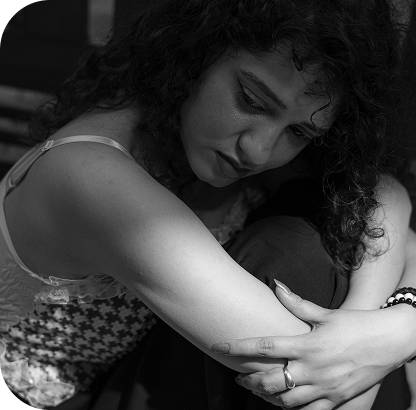
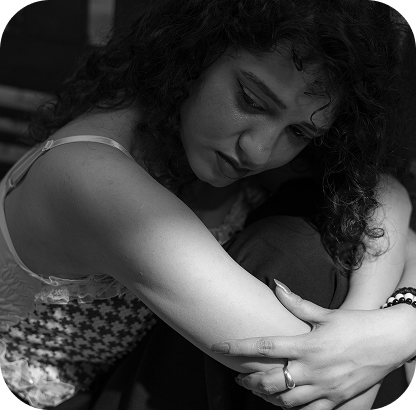
Inset the For Individual collage and fit it on the first screen
From review in the browser:
- The collage bled off both edges and read as cut off. It now spans the
  section's 5% gutter, the same edges as the navbar logo and Contact
  button, and the four photos that bled have their square side rounded
  to match their other corners.
- The strip ran under the fold. Its width is now also capped by the
  viewport height, so the photos plus some white land on the first
  screen (checked from 1280x720 to 2560x1440); lg top padding 7rem -> 4rem.
- 112px, not 48px, from the photos to "Meet From Anywhere in Ohio".

Changed region(s): [[0.875, 0.9073, 1.0, 1.0], [0.9062, 0.0, 1.0, 0.0878]]

diff --git a/components/sections/for-individual-page/layout-134.jsx b/components/sections/for-individual-page/layout-134.jsx
@@ -7,25 +7,33 @@ import React from "react";
  * The 2026-09-24 For Individual frame keeps the hero's type as it was --
  * tagline 16/24 w600, heading Playfair 400, body 18/27, button 140x44 -- and
  * replaces the three line-art vignettes with a collage of ten photographs:
- * a strip of seven under the button, plus a column of three flush to the
- * right edge that climbs up beside the copy.
+ * a strip of seven under the button, plus a column of three at the right
+ * end that climbs up beside the copy.
  *
  * Every box below is the frame's own, in 1440-frame px, measured from the top
  * of the strip (frame y=417 below the navbar, 19px above the button's bottom
  * edge -- the button sits between columns, so they never touch; the overlap
  * is built as 20px, the nearest step on the spacing scale). Each file was
- * delivered at exactly 2x its box with its corners already rounded, including
- * the square edge where a photo bleeds off the page, so none of them needs a
- * radius or `object-fit` here.
+ * delivered at exactly 2x its box with its corners already rounded, so none
+ * of them needs a radius or `object-fit` here.
  *
- * The strip scales with the viewport: `x`/`w` are a share of 1440, `y`/`h` a
- * share of the strip's 298px height, and the strip keeps that 1440:298 aspect.
- * The right column's top photo runs 319px (scaled) above the strip, so above
- * 1440 the section's top padding grows by the same amount -- `22.153vw - 207px`
- * is 7rem at 1440 -- and that photo keeps its distance under the navbar at
- * any width rather than sliding up under it. The frame puts it 98px down; here
- * it is 152px, level with the top of the h1, because the h1 is set a token
- * step larger than the frame (see below) and pushes the strip down with it.
+ * Two departures from the frame, both from review in the browser:
+ *
+ * 1. **The collage sits inside the page gutter, not flush to the edges.** The
+ *    frame bleeds the left photo and the right column off the page; on a real
+ *    screen that read as cut off. The strip now spans the section's 5% gutter
+ *    -- the same edges as the navbar logo and Contact button -- and the four
+ *    photos that bled had their square side rounded to match their others.
+ * 2. **The whole collage fits on the first screen.** The strip keeps the
+ *    frame's 1440:298 shape (`x`/`w` a share of 1440, `y`/`h` a share of 298)
+ *    but its width is also capped by the viewport *height*, so the photos plus
+ *    48px of white under them land above the fold rather than half under it.
+ *    `483.2vh - 2643px` is that cap: the copy above the strip is ~363px from
+ *    the section top at lg, so the strip may be `100vh - 72 (nav) - 64 (pt) -
+ *    363 - 48` tall, times 1440/298 for the width. It never goes below 52.5rem,
+ *    under which the paragraph would reach the right column, and never above
+ *    108rem, past which the right column would climb into the navbar. When
+ *    the cap binds, the strip is centred and the side margins grow.
  *
  * Decorative, so `aria-hidden` and no alt text -- the heading and body carry
  * the meaning. `lg:` only, as the vignettes were: at tablet and below the
@@ -45,10 +53,11 @@ const PHOTOS = [
 ];
 
 export function Layout134() {
-  // `lg:pb-0`: the strip is the bottom of the section, and the frame starts
-  // the next heading straight under it.
+  // `lg:pt-16`, not 7rem, is what leaves room for the collage on the first
+  // screen. `lg:pb-16` plus the next section's `lg:pt-12` puts 112px -- the
+  // standard section rhythm -- between the photos and the next heading.
   return (
-    <section className="relative overflow-hidden px-[5%] py-16 md:py-24 lg:pt-[max(7rem,calc(22.153vw-207px))] lg:pb-0 scheme-1 badge-alt">
+    <section className="relative overflow-hidden px-[5%] py-16 md:py-24 lg:pt-16 lg:pb-16 scheme-1 badge-alt">
       <div className="relative container max-w-lg text-center">
         <p className="mb-3 font-semibold md:mb-4">Ohio Residents:</p>
         {/* The frame carries a literal newline in this string --
@@ -91,11 +100,9 @@ export function Layout134() {
         </div>
       </div>
 
-      {/* Full-bleed: -5.5556% of the 90%-wide content box cancels the
-          section's 5% gutter on each side. */}
       <div
         aria-hidden="true"
-        className="pointer-events-none relative -mx-[5.5556%] hidden aspect-[1440/298] select-none lg:-mt-5 lg:block"
+        className="pointer-events-none relative mx-auto hidden aspect-[1440/298] w-full max-w-[min(108rem,max(52.5rem,calc(483.2vh-2643px)))] select-none lg:-mt-5 lg:block"
       >
         {PHOTOS.map(({ src, x, y, w, h }) => (
           <img

diff --git a/components/sections/for-individual-page/layout-504.jsx b/components/sections/for-individual-page/layout-504.jsx
@@ -35,10 +35,9 @@ import React from "react";
  * so the real illustrations already in the repo are kept instead.
  */
 export function Layout504() {
-  // `lg:pt-12`: the 2026-09-24 frame starts this heading ~24px under the
-  // hero's photo strip, which is flush with the bottom of that section. At 24
-  // it sat as far from the photos as from its own paragraph and read as their
-  // caption, so it gets twice the heading-to-paragraph gap instead.
+  // `lg:pt-12`: with the hero's `lg:pb-16` this heading starts 112px under
+  // the hero's photo strip. The 2026-09-24 frame draws it ~24px under, which
+  // read as a caption for the photos and felt cramped in review.
   return (
     <section className="px-[5%] py-16 md:py-20 lg:pt-12 lg:pb-20 scheme-1 badge-alt">
       <div className="container">
